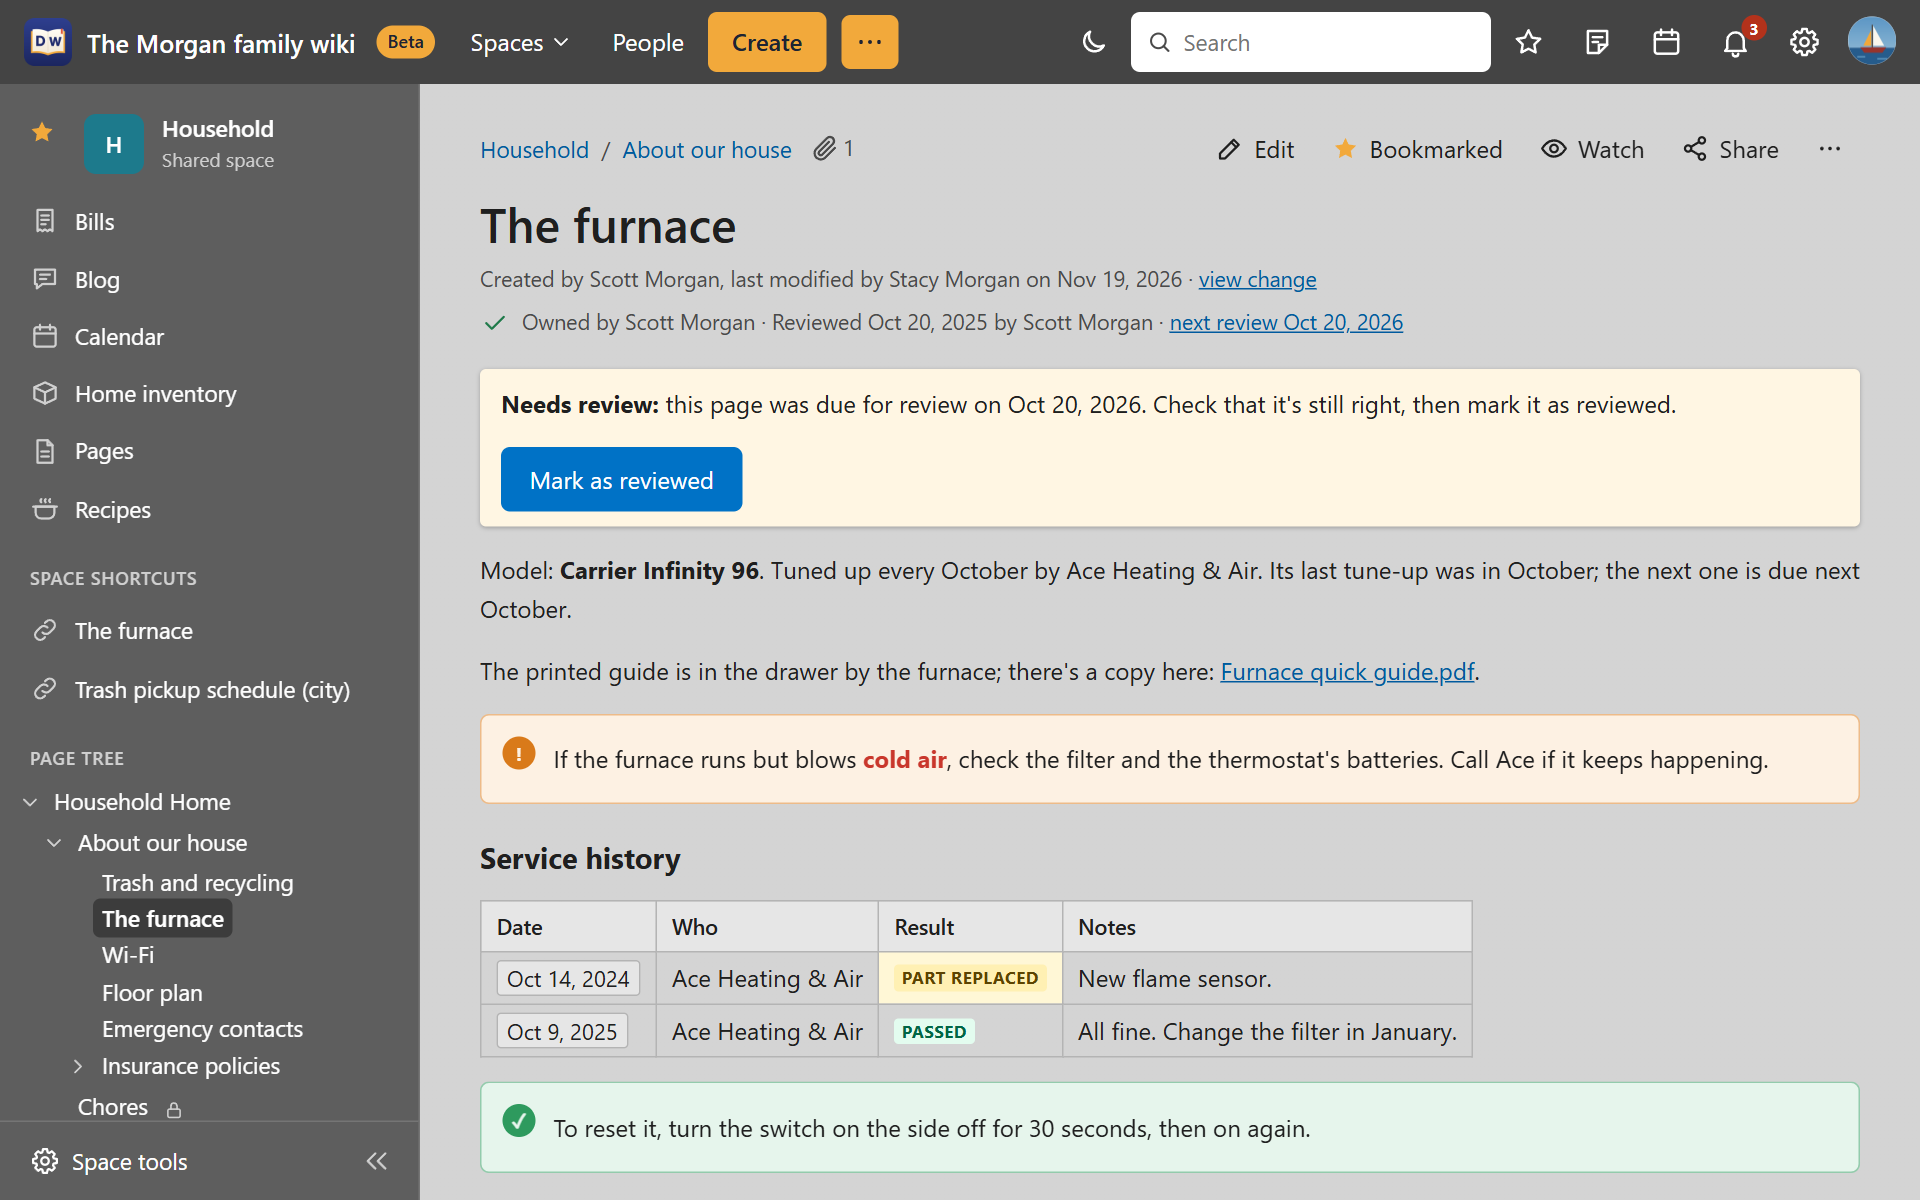
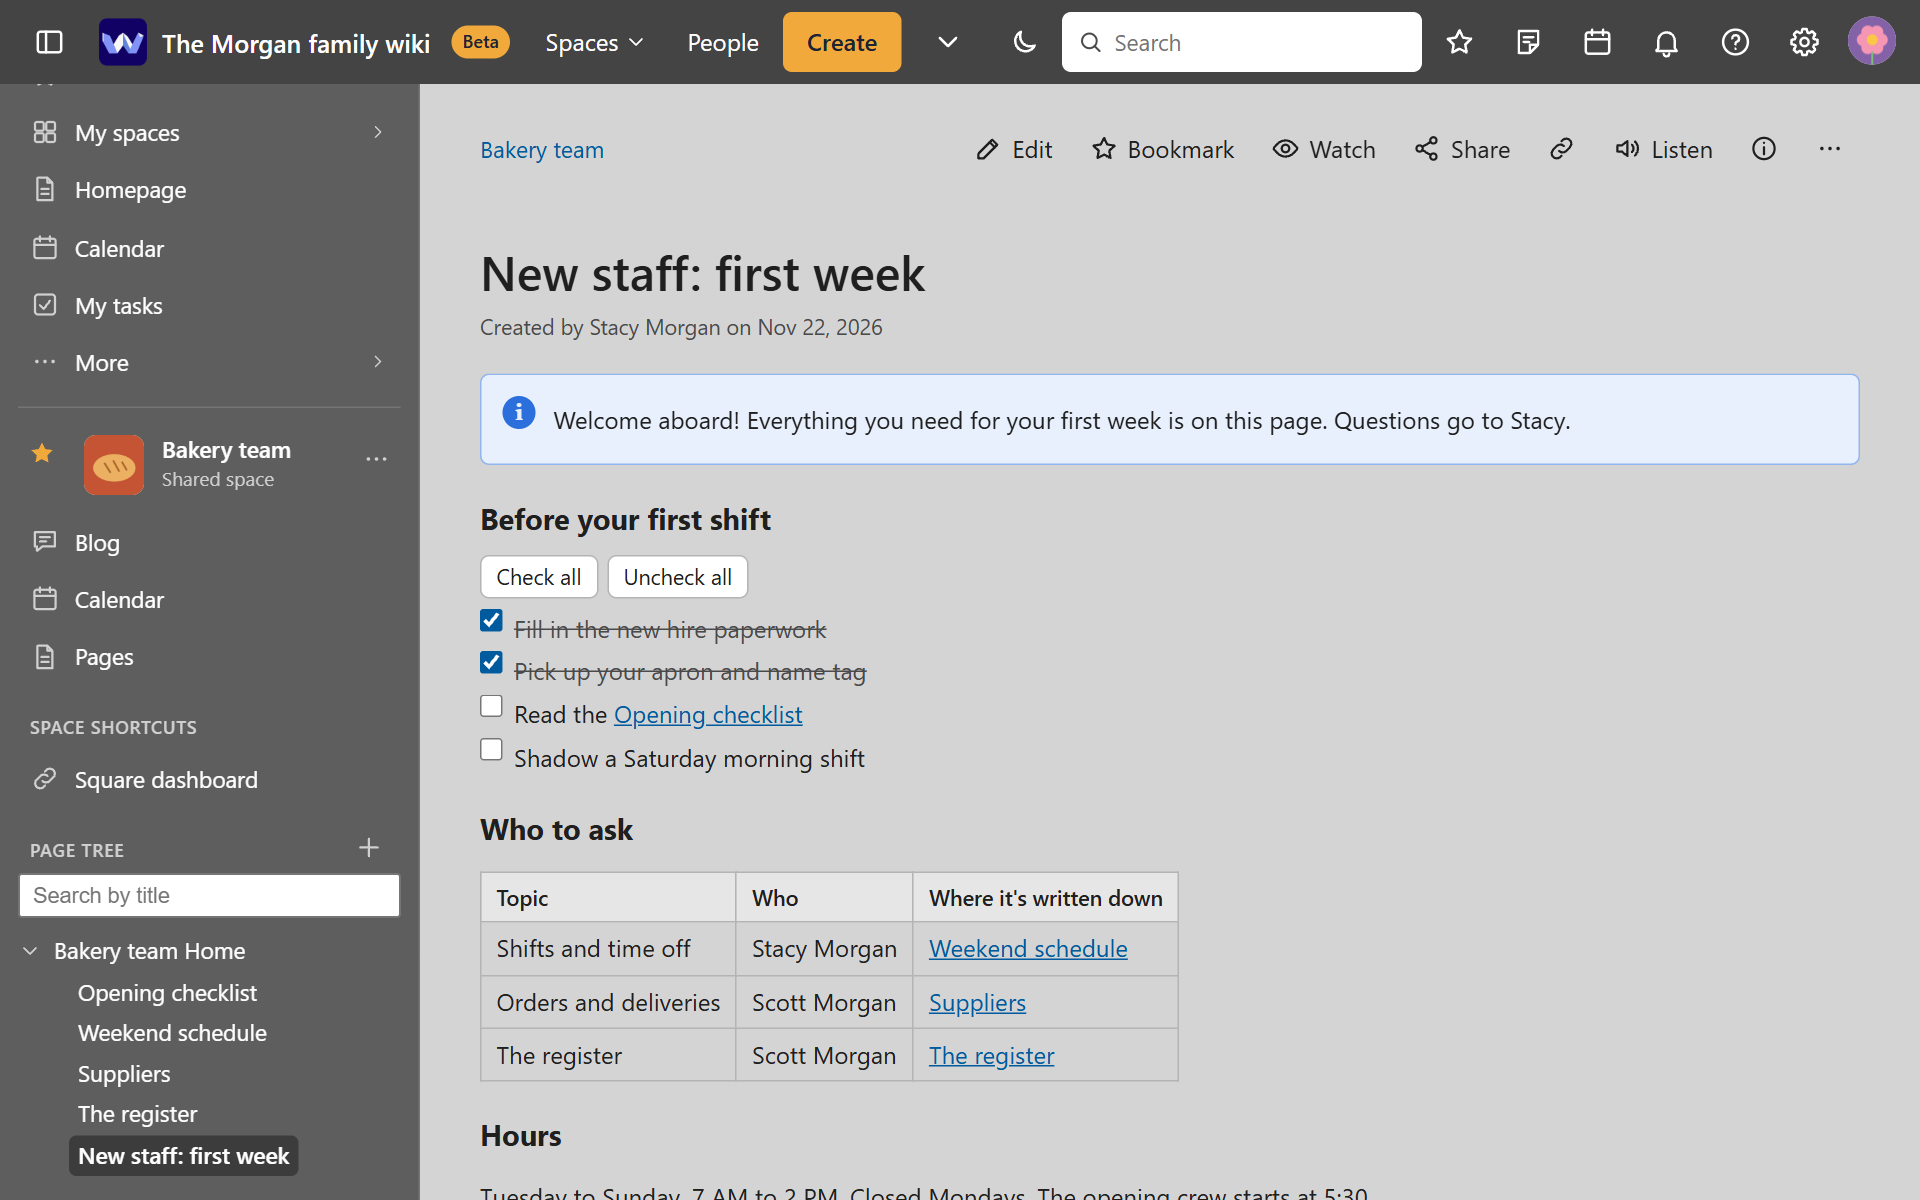
A calmer main picture: the Bakery team's New staff page, for families and small businesses

diff --git a/index.html b/index.html
@@ -52,8 +52,8 @@
       <p class="setup-note"><strong>Install on one Windows PC. Everyone else uses a browser.</strong> The PC that holds the wiki needs to stay on and awake while people use it. To reach it from outside your home or office too, see <a href="#away">Away from home</a>.</p>
 
       <figure class="shot hero-shot">
-        <a class="shot-light" href="features/img/wiki-light.png" target="_blank" rel="noopener"><img src="features/img/wiki-light.png" width="1920" height="1200" alt="DesktopWiki in a browser: the Household space with its page tree on the left and the page The furnace, with its owner and next review date, a warning panel about cold air, a table of service visits with colored status labels and a tip panel."></a>
-        <a class="shot-dark" href="features/img/wiki-dark.png" target="_blank" rel="noopener"><img src="features/img/wiki-dark.png" width="1920" height="1200" loading="lazy" alt="DesktopWiki in a browser: the Household space with its page tree on the left and the page The furnace, with its owner and next review date, a warning panel about cold air, a table of service visits with colored status labels and a tip panel. In dark mode."></a>
+        <a class="shot-light" href="features/img/wiki-light.png" target="_blank" rel="noopener"><img src="features/img/wiki-light.png" width="1920" height="1200" alt="DesktopWiki in a browser: the Bakery team space with its page tree on the left and the page New staff: first week, with a welcome note, a checklist for the first shift and a table of who to ask."></a>
+        <a class="shot-dark" href="features/img/wiki-dark.png" target="_blank" rel="noopener"><img src="features/img/wiki-dark.png" width="1920" height="1200" loading="lazy" alt="DesktopWiki in a browser: the Bakery team space with its page tree on the left and the page New staff: first week, with a welcome note, a checklist for the first shift and a table of who to ask. In dark mode."></a>
         <figcaption>The furnace&rsquo;s page in the demo wiki, the Morgan family&rsquo;s. Click it to open it full size in a new tab.</figcaption>
       </figure>
 

diff --git a/features/wiki.html b/features/wiki.html
@@ -48,8 +48,8 @@
     </nav>
 
     <figure class="shot">
-      <a class="shot-light" href="img/wiki-light.png" target="_blank" rel="noopener"><img src="img/wiki-light.png" width="1920" height="1200" alt="The Household space with its page tree on the left and the page The furnace: its owner and next review date with a Needs review note, a warning panel about cold air, a table of service visits with colored status labels and a tip panel."></a>
-      <a class="shot-dark" href="img/wiki-dark.png" target="_blank" rel="noopener"><img src="img/wiki-dark.png" width="1920" height="1200" loading="lazy" alt="The Household space with its page tree on the left and the page The furnace: its owner and next review date with a Needs review note, a warning panel about cold air, a table of service visits with colored status labels and a tip panel. In dark mode."></a>
+      <a class="shot-light" href="img/wiki-light.png" target="_blank" rel="noopener"><img src="img/wiki-light.png" width="1920" height="1200" alt="The Bakery team space with its page tree on the left and the page New staff: first week, with a welcome note, a checklist for the first shift and a table of who to ask."></a>
+      <a class="shot-dark" href="img/wiki-dark.png" target="_blank" rel="noopener"><img src="img/wiki-dark.png" width="1920" height="1200" loading="lazy" alt="The Bakery team space with its page tree on the left and the page New staff: first week, with a welcome note, a checklist for the first shift and a table of who to ask. In dark mode."></a>
       <figcaption>From the demo wiki, the Morgan family&rsquo;s. The picture follows this page&rsquo;s light or dark mode; click it to open it full size in a new tab.</figcaption>
     </figure>
 
